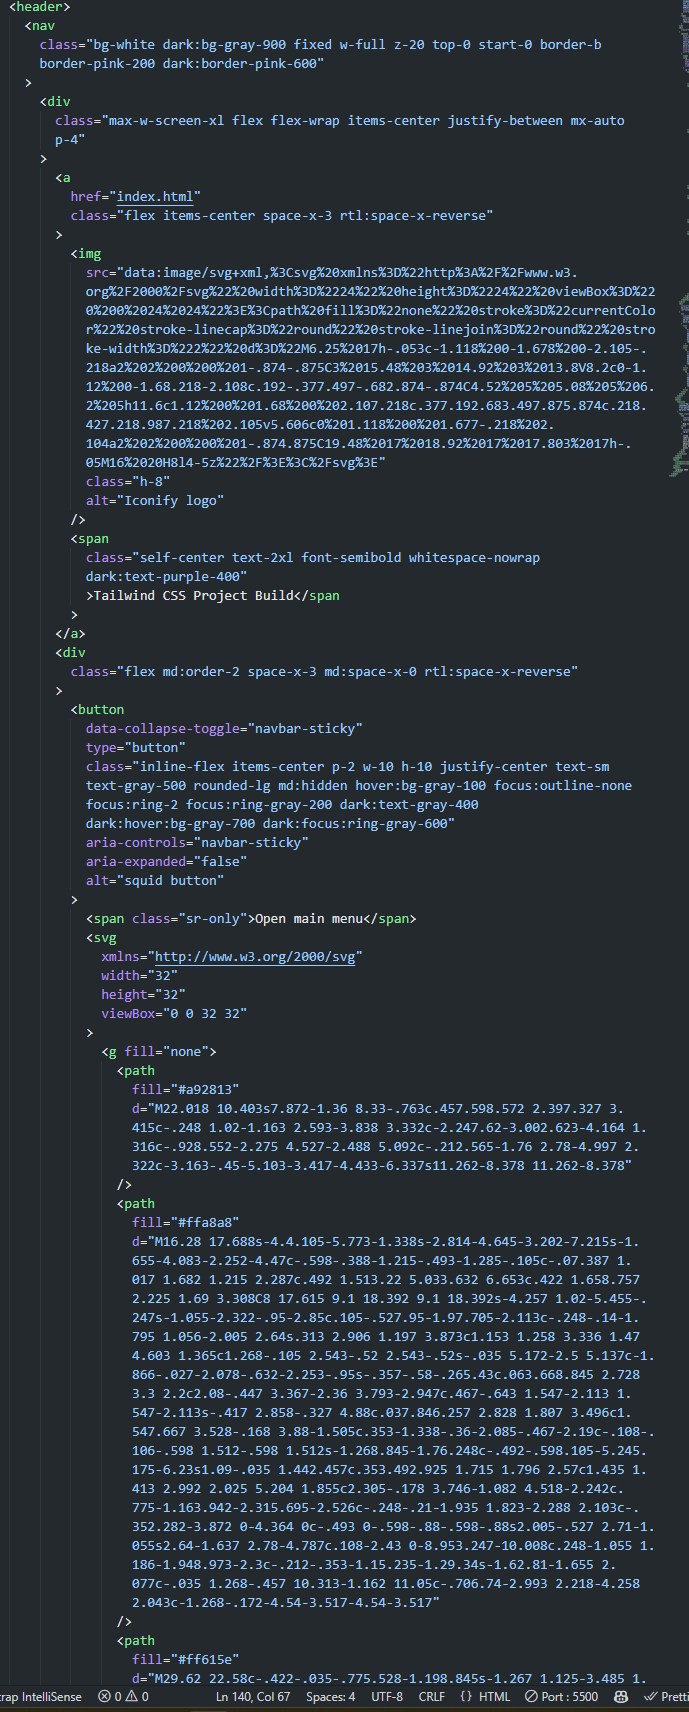
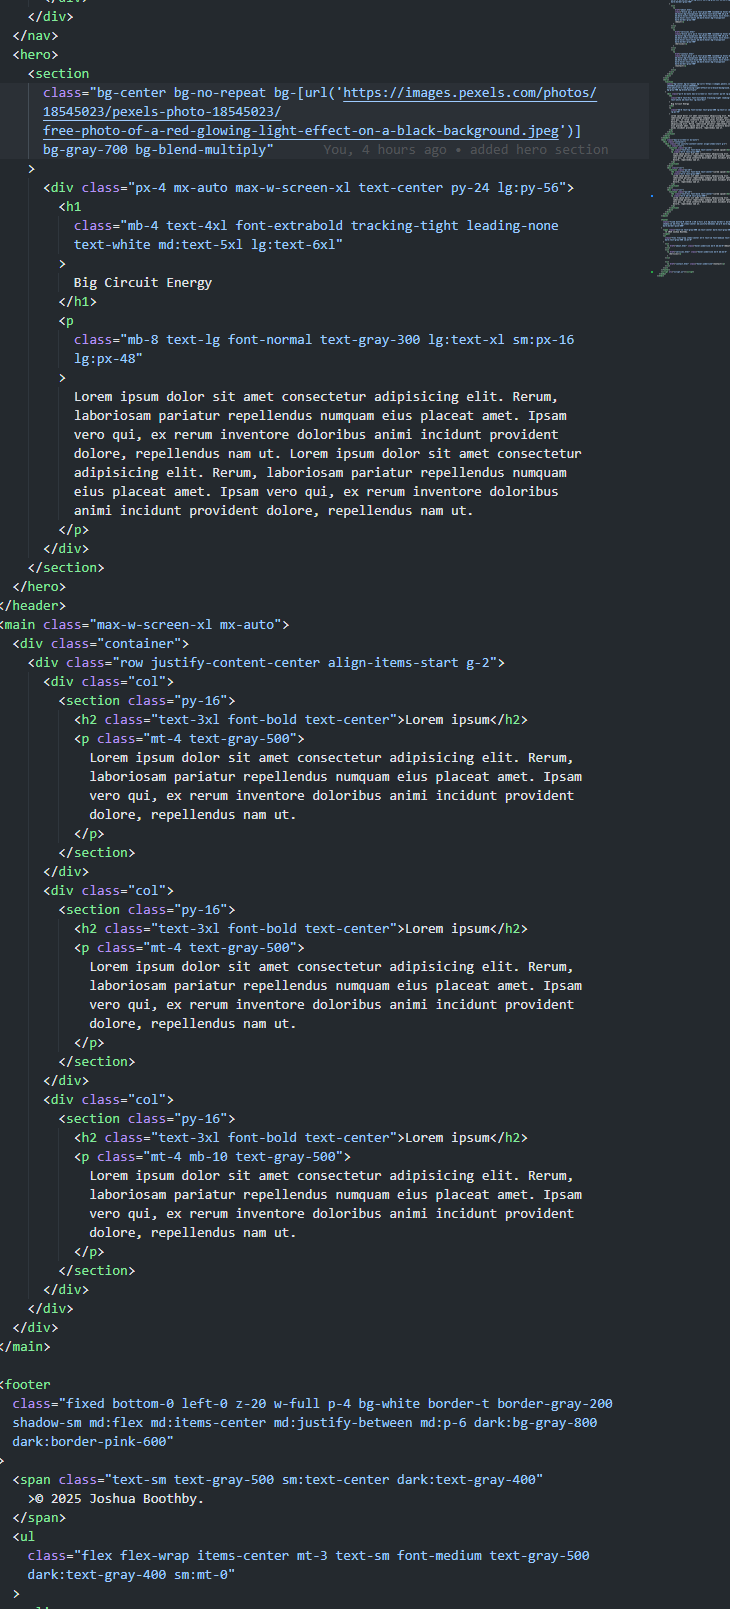
finished

diff --git a/index.html b/index.html
@@ -16,7 +16,7 @@
   <body>
     <header>
       <nav
-        class="bg-white dark:bg-gray-900 fixed w-full z-20 top-0 start-0 border-b border-pink-200 dark:border-pink-600"
+        class="bg-white dark:bg-gray-900 md:fixed w-full z-20 top-0 start-0 border-b border-pink-200 dark:border-pink-600"
       >
         <div
           class="max-w-screen-xl flex flex-wrap items-center justify-between mx-auto p-4"
@@ -37,57 +37,9 @@
           </a>
           <div
             class="flex md:order-2 space-x-3 md:space-x-0 rtl:space-x-reverse"
-          >
-            <button
-              data-collapse-toggle="navbar-sticky"
-              type="button"
-              class="inline-flex items-center p-2 w-10 h-10 justify-center text-sm text-gray-500 rounded-lg md:hidden hover:bg-gray-100 focus:outline-none focus:ring-2 focus:ring-gray-200 dark:text-gray-400 dark:hover:bg-gray-700 dark:focus:ring-gray-600"
-              aria-controls="navbar-sticky"
-              aria-expanded="false"
-              alt="squid button"
-            >
-              <span class="sr-only">Open main menu</span>
-              <svg
-                xmlns="http://www.w3.org/2000/svg"
-                width="32"
-                height="32"
-                viewBox="0 0 32 32"
-              >
-                <g fill="none">
-                  <path
-                    fill="#a92813"
-                    d="M22.018 10.403s7.872-1.36 8.33-.763c.457.598.572 2.397.327 3.415c-.248 1.02-1.163 2.593-3.838 3.332c-2.247.62-3.002.623-4.164 1.316c-.928.552-2.275 4.527-2.488 5.092c-.212.565-1.76 2.78-4.997 2.322c-3.163-.45-5.103-3.417-4.433-6.337s11.262-8.378 11.262-8.378"
-                  />
-                  <path
-                    fill="#ffa8a8"
-                    d="M16.28 17.688s-4.4.105-5.773-1.338s-2.814-4.645-3.202-7.215s-1.655-4.083-2.252-4.47c-.598-.388-1.215-.493-1.285-.105c-.07.387 1.017 1.682 1.215 2.287c.492 1.513.22 5.033.632 6.653c.422 1.658.757 2.225 1.69 3.308C8 17.615 9.1 18.392 9.1 18.392s-4.257 1.02-5.455-.247s-1.055-2.322-.95-2.85c.105-.527.95-1.97.705-2.113c-.248-.14-1.795 1.056-2.005 2.64s.313 2.906 1.197 3.873c1.153 1.258 3.336 1.47 4.603 1.365c1.268-.105 2.543-.52 2.543-.52s-.035 5.172-2.5 5.137c-1.866-.027-2.078-.632-2.253-.95s-.357-.58-.265.43c.063.668.845 2.728 3.3 2.2c2.08-.447 3.367-2.36 3.793-2.947c.467-.643 1.547-2.113 1.547-2.113s-.417 2.858-.327 4.88c.037.846.257 2.828 1.807 3.496c1.547.667 3.528-.168 3.88-1.505c.353-1.338-.36-2.085-.467-2.19c-.108-.106-.598 1.512-.598 1.512s-1.268.845-1.76.248c-.492-.598.105-5.245.175-6.23s1.09-.035 1.442.457c.353.492.925 1.715 1.796 2.57c1.435 1.413 2.992 2.025 5.204 1.855c2.305-.178 3.746-1.082 4.518-2.242c.775-1.163.942-2.315.695-2.526c-.248-.21-1.935 1.823-2.288 2.103c-.352.282-3.872 0-4.364 0c-.493 0-.598-.88-.598-.88s2.005-.527 2.71-1.055s2.64-1.637 2.78-4.787c.108-2.43 0-8.953.247-10.008c.248-1.055 1.186-1.948.973-2.3c-.212-.353-1.15.235-1.29.34s-1.62.81-1.655 2.077c-.035 1.268-.457 10.313-1.162 11.05c-.706.74-2.993 2.218-4.258 2.043c-1.268-.172-4.54-3.517-4.54-3.517"
-                  />
-                  <path
-                    fill="#ff615e"
-                    d="M29.62 22.58c-.422-.035-.775.528-1.198.845s-1.267 1.125-3.485 1.055s-3.695-2.5-3.695-2.5s.706.07 1.513-.14c.81-.21 2.095-.898 2.903-2.357c.962-1.736.747-6.018.757-7.92c.012-2.628.867-4.026 1.198-4.47c.562-.763 1.454-1.198 1.49-1.443c.034-.248-1.116-.105-1.773.282c-.73.43-1.09.915-1.09.915s-1.69-.175-2.605-.175s-2.673.135-4.205.493c-1.883.44-3.29 1.512-3.677 1.585c0 0-1.25-1.243-3.308.175c-2.148 1.477-.598 4.61-.598 4.61s-.104.453-.667.598c-.81.21-2.023-.58-2.463-1.988c-.37-1.187-.282-2.833-.632-4.733c-.353-1.9-1.373-2.745-2.288-3.167c-.915-.423-2.077-.035-1.9.21c.175.247 1.513.705 2.323 2.182c.81 1.478.422 4.928 1.302 7.39c.88 2.463 2.5 3.273 2.5 3.273s-.915.422-1.407.527c-.493.105-1.83.353-3.063.098c-1.282-.265-2.147-1.205-2.287-2.243c-.12-.882.457-2.427.14-2.5c-.318-.072-1.453 1.548-1.488 2.885c-.035 1.338.995 2.886 2.543 3.625c1.547.74 4.787.07 4.787.07s-.265.406-.3 1.18c-.035.776-.492 2.508-1.32 3.01c-.567.345-1.072.458-1.25 0c-.175-.457.723-.632.688-1.09c-.035-.457-.775-.572-1.478-.14c-.475.29-1.267 1.338-.775 2.463c.493 1.125 1.715 1.523 3.063 1.163c2.01-.538 4.33-4.258 5.068-4.893c.74-.632 1.232-.457 1.232-.457s-.353 3.272-.283 5.49c.07 2.217 1.488 3.665 3.063 3.415c1.76-.283 1.865-1.726 1.585-2.5c-.247-.678-1.18-.933-1.442-.74c-.343.252-.115.667.017.782c.318.273.053.907-.44.765c-.492-.14-.035-1.795.175-2.605s.705-2.71 1.267-2.85c.563-.14 1.136.848 1.656 1.443c.89 1.02 2.34 1.812 4.407 1.847c2.733.047 4.425-1.638 4.813-2.06c.38-.42 1.047-1.37.627-1.405m-6.338-7.355a7.6 7.6 0 0 1 1.503-.82s.023 2.885-1.08 4.375c-.912 1.232-1.795.95-1.795.95s.907-.495.985-1.442c.105-1.303-1.267-1.548-1.267-1.548s.95-1.025 1.654-1.515"
-                  />
-                  <path
-                    fill="#ff615e"
-                    d="M28.023 13.483s2.897-.863 2.614-2.976s-2.417-2.58-2.417-2.58s-.305 1.103-.258 2.546c.023.632.06 3.01.06 3.01"
-                  />
-                  <path
-                    fill="#a52914"
-                    d="M21.883 18.9c-.323.515-.873.623-1.273.373s-.462-.753-.14-1.268c.323-.515.983-.747 1.385-.497s.35.877.027 1.392m-5.55-3.025c.45-.027.3-.475.21-1.072c-.088-.598-.413-2.17.51-3.116c.774-.792 1.74-.782 2.462-.317c.545.353.793.493 1.002.23c.14-.175-.07-.51-.422-.81c-.447-.38-1.987-1.163-3.432.035c-1.366 1.133-1.146 3.325-.968 4.083c.18.757.355.985.637.967m-4.418-7.093c-.915.95-1.102 1.71-1.002 2.993c.087 1.145.492 2.022.932 1.848c.367-.148.21-.828.087-1.18c-.122-.353-.335-2.043.563-2.958s1.918-.793 2.375-.688s.65.21.88-.052c.23-.263-.248-.688-.705-.793s-1.92-.425-3.13.83"
-                  />
-                  <path
-                    fill="#2c2b2d"
-                    d="M20.503 14.415c0 .73-.548 1.463-1.268 1.425c-.705-.035-1.037-.715-1.037-1.442c0-.728.422-1.32 1.162-1.373c.843-.06 1.143.66 1.143 1.39"
-                  />
-                  <path
-                    fill="#fcd4b0"
-                    d="M27.713 11.952a.54.54 0 0 0-.434-.63a.54.54 0 0 0-.608.463a.54.54 0 0 0 .433.629a.54.54 0 0 0 .609-.462m.399-3.412c.105-.28-.007-.58-.25-.671s-.525.06-.63.34c-.105.279.007.58.25.67c.243.092.525-.06.63-.34m-.922 7.916a.657.657 0 0 0 .645-.667a.657.657 0 0 0-.645-.668a.657.657 0 0 0-.645.668c0 .368.289.667.645.667m-.012 3.544c.155-.351.013-.755-.317-.901c-.331-.147-.725.019-.88.37c-.157.35-.015.754.316.9c.33.147.725-.018.88-.37m.51 6.3c.268-.114.402-.401.3-.641s-.402-.343-.67-.229s-.403.402-.3.642c.102.24.402.342.67.228m-3.292.94c.33 0 .598-.252.598-.563s-.268-.562-.598-.562s-.598.251-.598.562c0 .31.268.563.598.563m-3.21-.578a.587.587 0 0 0 .575-.598a.587.587 0 0 0-.575-.597a.587.587 0 0 0-.575.598c0 .33.257.597.575.597m-5.96 4.155a.616.616 0 0 0 .623-.61a.616.616 0 0 0-.623-.61a.616.616 0 0 0-.623.61c0 .337.28.61.623.61m-1.79-3.542c.24-.016.416-.29.394-.61c-.022-.321-.234-.568-.474-.552s-.416.29-.394.61c.022.322.234.569.473.552m-2.887-1.209c.262-.242.299-.627.083-.86s-.602-.226-.864.016c-.261.241-.299.626-.083.86s.602.226.864-.016M7.083 27.65c.356 0 .644-.263.644-.587c0-.325-.288-.588-.645-.588c-.356 0-.644.263-.644.587c0 .325.288.588.644.588m-.657-6.525c.318 0 .575-.23.575-.515c0-.284-.257-.515-.575-.515s-.575.23-.575.515c0 .284.257.515.575.515m-2.458-1.081a.55.55 0 0 0-.217-.75a.55.55 0 0 0-.757.187a.55.55 0 0 0 .217.75a.55.55 0 0 0 .757-.187m-2.048-1.957c.24-.092.347-.393.24-.671s-.388-.43-.628-.337s-.347.392-.24.67c.107.279.388.43.628.338M6.3 13.448a.564.564 0 0 0 .553-.575a.564.564 0 0 0-.553-.575a.564.564 0 0 0-.553.575c0 .317.248.575.553.575m-.307-3.305c.298 0 .54-.252.54-.563a.55.55 0 0 0-.54-.562a.55.55 0 0 0-.54.562c0 .31.241.563.54.563m-.26-3.001c.247-.096.362-.394.257-.665c-.106-.272-.392-.415-.639-.319s-.362.394-.256.666c.105.271.39.414.638.318"
-                  />
-                </g>
-              </svg>
-            </button>
-          </div>
+          ></div>
           <div
-            class="items-center justify-between hidden w-full md:flex md:w-auto md:order-1"
+            class="items-center justify-between w-full md:flex md:w-auto md:order-1"
             id="navbar-sticky"
           >
             <ul
@@ -171,7 +123,7 @@
           <div class="col">
             <section class="py-16">
               <h2 class="text-3xl font-bold text-center">Lorem ipsum</h2>
-              <p class="mt-4 text-gray-500">
+              <p class="mt-4 mb-10 text-gray-500">
                 Lorem ipsum dolor sit amet consectetur adipisicing elit. Rerum,
                 laboriosam pariatur repellendus numquam eius placeat amet. Ipsam
                 vero qui, ex rerum inventore doloribus animi incidunt provident

diff --git a/about.html b/about.html
@@ -16,7 +16,7 @@
   <body>
     <header>
       <nav
-        class="bg-white dark:bg-gray-900 fixed w-full z-20 top-0 start-0 border-b border-pink-200 dark:border-pink-600"
+        class="bg-white dark:bg-gray-900 md:fixed w-full z-20 top-0 start-0 border-b border-pink-200 dark:border-pink-600"
       >
         <div
           class="max-w-screen-xl flex flex-wrap items-center justify-between mx-auto p-4"
@@ -37,57 +37,9 @@
           </a>
           <div
             class="flex md:order-2 space-x-3 md:space-x-0 rtl:space-x-reverse"
-          >
-            <button
-              data-collapse-toggle="navbar-sticky"
-              type="button"
-              class="inline-flex items-center p-2 w-10 h-10 justify-center text-sm text-gray-500 rounded-lg md:hidden hover:bg-gray-100 focus:outline-none focus:ring-2 focus:ring-gray-200 dark:text-gray-400 dark:hover:bg-gray-700 dark:focus:ring-gray-600"
-              aria-controls="navbar-sticky"
-              aria-expanded="false"
-              alt="squid button"
-            >
-              <span class="sr-only">Open main menu</span>
-              <svg
-                xmlns="http://www.w3.org/2000/svg"
-                width="32"
-                height="32"
-                viewBox="0 0 32 32"
-              >
-                <g fill="none">
-                  <path
-                    fill="#a92813"
-                    d="M22.018 10.403s7.872-1.36 8.33-.763c.457.598.572 2.397.327 3.415c-.248 1.02-1.163 2.593-3.838 3.332c-2.247.62-3.002.623-4.164 1.316c-.928.552-2.275 4.527-2.488 5.092c-.212.565-1.76 2.78-4.997 2.322c-3.163-.45-5.103-3.417-4.433-6.337s11.262-8.378 11.262-8.378"
-                  />
-                  <path
-                    fill="#ffa8a8"
-                    d="M16.28 17.688s-4.4.105-5.773-1.338s-2.814-4.645-3.202-7.215s-1.655-4.083-2.252-4.47c-.598-.388-1.215-.493-1.285-.105c-.07.387 1.017 1.682 1.215 2.287c.492 1.513.22 5.033.632 6.653c.422 1.658.757 2.225 1.69 3.308C8 17.615 9.1 18.392 9.1 18.392s-4.257 1.02-5.455-.247s-1.055-2.322-.95-2.85c.105-.527.95-1.97.705-2.113c-.248-.14-1.795 1.056-2.005 2.64s.313 2.906 1.197 3.873c1.153 1.258 3.336 1.47 4.603 1.365c1.268-.105 2.543-.52 2.543-.52s-.035 5.172-2.5 5.137c-1.866-.027-2.078-.632-2.253-.95s-.357-.58-.265.43c.063.668.845 2.728 3.3 2.2c2.08-.447 3.367-2.36 3.793-2.947c.467-.643 1.547-2.113 1.547-2.113s-.417 2.858-.327 4.88c.037.846.257 2.828 1.807 3.496c1.547.667 3.528-.168 3.88-1.505c.353-1.338-.36-2.085-.467-2.19c-.108-.106-.598 1.512-.598 1.512s-1.268.845-1.76.248c-.492-.598.105-5.245.175-6.23s1.09-.035 1.442.457c.353.492.925 1.715 1.796 2.57c1.435 1.413 2.992 2.025 5.204 1.855c2.305-.178 3.746-1.082 4.518-2.242c.775-1.163.942-2.315.695-2.526c-.248-.21-1.935 1.823-2.288 2.103c-.352.282-3.872 0-4.364 0c-.493 0-.598-.88-.598-.88s2.005-.527 2.71-1.055s2.64-1.637 2.78-4.787c.108-2.43 0-8.953.247-10.008c.248-1.055 1.186-1.948.973-2.3c-.212-.353-1.15.235-1.29.34s-1.62.81-1.655 2.077c-.035 1.268-.457 10.313-1.162 11.05c-.706.74-2.993 2.218-4.258 2.043c-1.268-.172-4.54-3.517-4.54-3.517"
-                  />
-                  <path
-                    fill="#ff615e"
-                    d="M29.62 22.58c-.422-.035-.775.528-1.198.845s-1.267 1.125-3.485 1.055s-3.695-2.5-3.695-2.5s.706.07 1.513-.14c.81-.21 2.095-.898 2.903-2.357c.962-1.736.747-6.018.757-7.92c.012-2.628.867-4.026 1.198-4.47c.562-.763 1.454-1.198 1.49-1.443c.034-.248-1.116-.105-1.773.282c-.73.43-1.09.915-1.09.915s-1.69-.175-2.605-.175s-2.673.135-4.205.493c-1.883.44-3.29 1.512-3.677 1.585c0 0-1.25-1.243-3.308.175c-2.148 1.477-.598 4.61-.598 4.61s-.104.453-.667.598c-.81.21-2.023-.58-2.463-1.988c-.37-1.187-.282-2.833-.632-4.733c-.353-1.9-1.373-2.745-2.288-3.167c-.915-.423-2.077-.035-1.9.21c.175.247 1.513.705 2.323 2.182c.81 1.478.422 4.928 1.302 7.39c.88 2.463 2.5 3.273 2.5 3.273s-.915.422-1.407.527c-.493.105-1.83.353-3.063.098c-1.282-.265-2.147-1.205-2.287-2.243c-.12-.882.457-2.427.14-2.5c-.318-.072-1.453 1.548-1.488 2.885c-.035 1.338.995 2.886 2.543 3.625c1.547.74 4.787.07 4.787.07s-.265.406-.3 1.18c-.035.776-.492 2.508-1.32 3.01c-.567.345-1.072.458-1.25 0c-.175-.457.723-.632.688-1.09c-.035-.457-.775-.572-1.478-.14c-.475.29-1.267 1.338-.775 2.463c.493 1.125 1.715 1.523 3.063 1.163c2.01-.538 4.33-4.258 5.068-4.893c.74-.632 1.232-.457 1.232-.457s-.353 3.272-.283 5.49c.07 2.217 1.488 3.665 3.063 3.415c1.76-.283 1.865-1.726 1.585-2.5c-.247-.678-1.18-.933-1.442-.74c-.343.252-.115.667.017.782c.318.273.053.907-.44.765c-.492-.14-.035-1.795.175-2.605s.705-2.71 1.267-2.85c.563-.14 1.136.848 1.656 1.443c.89 1.02 2.34 1.812 4.407 1.847c2.733.047 4.425-1.638 4.813-2.06c.38-.42 1.047-1.37.627-1.405m-6.338-7.355a7.6 7.6 0 0 1 1.503-.82s.023 2.885-1.08 4.375c-.912 1.232-1.795.95-1.795.95s.907-.495.985-1.442c.105-1.303-1.267-1.548-1.267-1.548s.95-1.025 1.654-1.515"
-                  />
-                  <path
-                    fill="#ff615e"
-                    d="M28.023 13.483s2.897-.863 2.614-2.976s-2.417-2.58-2.417-2.58s-.305 1.103-.258 2.546c.023.632.06 3.01.06 3.01"
-                  />
-                  <path
-                    fill="#a52914"
-                    d="M21.883 18.9c-.323.515-.873.623-1.273.373s-.462-.753-.14-1.268c.323-.515.983-.747 1.385-.497s.35.877.027 1.392m-5.55-3.025c.45-.027.3-.475.21-1.072c-.088-.598-.413-2.17.51-3.116c.774-.792 1.74-.782 2.462-.317c.545.353.793.493 1.002.23c.14-.175-.07-.51-.422-.81c-.447-.38-1.987-1.163-3.432.035c-1.366 1.133-1.146 3.325-.968 4.083c.18.757.355.985.637.967m-4.418-7.093c-.915.95-1.102 1.71-1.002 2.993c.087 1.145.492 2.022.932 1.848c.367-.148.21-.828.087-1.18c-.122-.353-.335-2.043.563-2.958s1.918-.793 2.375-.688s.65.21.88-.052c.23-.263-.248-.688-.705-.793s-1.92-.425-3.13.83"
-                  />
-                  <path
-                    fill="#2c2b2d"
-                    d="M20.503 14.415c0 .73-.548 1.463-1.268 1.425c-.705-.035-1.037-.715-1.037-1.442c0-.728.422-1.32 1.162-1.373c.843-.06 1.143.66 1.143 1.39"
-                  />
-                  <path
-                    fill="#fcd4b0"
-                    d="M27.713 11.952a.54.54 0 0 0-.434-.63a.54.54 0 0 0-.608.463a.54.54 0 0 0 .433.629a.54.54 0 0 0 .609-.462m.399-3.412c.105-.28-.007-.58-.25-.671s-.525.06-.63.34c-.105.279.007.58.25.67c.243.092.525-.06.63-.34m-.922 7.916a.657.657 0 0 0 .645-.667a.657.657 0 0 0-.645-.668a.657.657 0 0 0-.645.668c0 .368.289.667.645.667m-.012 3.544c.155-.351.013-.755-.317-.901c-.331-.147-.725.019-.88.37c-.157.35-.015.754.316.9c.33.147.725-.018.88-.37m.51 6.3c.268-.114.402-.401.3-.641s-.402-.343-.67-.229s-.403.402-.3.642c.102.24.402.342.67.228m-3.292.94c.33 0 .598-.252.598-.563s-.268-.562-.598-.562s-.598.251-.598.562c0 .31.268.563.598.563m-3.21-.578a.587.587 0 0 0 .575-.598a.587.587 0 0 0-.575-.597a.587.587 0 0 0-.575.598c0 .33.257.597.575.597m-5.96 4.155a.616.616 0 0 0 .623-.61a.616.616 0 0 0-.623-.61a.616.616 0 0 0-.623.61c0 .337.28.61.623.61m-1.79-3.542c.24-.016.416-.29.394-.61c-.022-.321-.234-.568-.474-.552s-.416.29-.394.61c.022.322.234.569.473.552m-2.887-1.209c.262-.242.299-.627.083-.86s-.602-.226-.864.016c-.261.241-.299.626-.083.86s.602.226.864-.016M7.083 27.65c.356 0 .644-.263.644-.587c0-.325-.288-.588-.645-.588c-.356 0-.644.263-.644.587c0 .325.288.588.644.588m-.657-6.525c.318 0 .575-.23.575-.515c0-.284-.257-.515-.575-.515s-.575.23-.575.515c0 .284.257.515.575.515m-2.458-1.081a.55.55 0 0 0-.217-.75a.55.55 0 0 0-.757.187a.55.55 0 0 0 .217.75a.55.55 0 0 0 .757-.187m-2.048-1.957c.24-.092.347-.393.24-.671s-.388-.43-.628-.337s-.347.392-.24.67c.107.279.388.43.628.338M6.3 13.448a.564.564 0 0 0 .553-.575a.564.564 0 0 0-.553-.575a.564.564 0 0 0-.553.575c0 .317.248.575.553.575m-.307-3.305c.298 0 .54-.252.54-.563a.55.55 0 0 0-.54-.562a.55.55 0 0 0-.54.562c0 .31.241.563.54.563m-.26-3.001c.247-.096.362-.394.257-.665c-.106-.272-.392-.415-.639-.319s-.362.394-.256.666c.105.271.39.414.638.318"
-                  />
-                </g>
-              </svg>
-            </button>
-          </div>
+          ></div>
           <div
-            class="items-center justify-between hidden w-full md:flex md:w-auto md:order-1"
+            class="items-center justify-between w-full md:flex md:w-auto md:order-1"
             id="navbar-sticky"
           >
             <ul

diff --git a/contact.html b/contact.html
@@ -16,7 +16,7 @@
   <body>
     <header>
       <nav
-        class="bg-white dark:bg-gray-900 fixed w-full z-20 top-0 start-0 border-b border-pink-200 dark:border-pink-600"
+        class="bg-white dark:bg-gray-900 md:fixed w-full z-20 top-0 start-0 border-b border-pink-200 dark:border-pink-600"
       >
         <div
           class="max-w-screen-xl flex flex-wrap items-center justify-between mx-auto p-4"
@@ -37,57 +37,9 @@
           </a>
           <div
             class="flex md:order-2 space-x-3 md:space-x-0 rtl:space-x-reverse"
-          >
-            <button
-              data-collapse-toggle="navbar-sticky"
-              type="button"
-              class="inline-flex items-center p-2 w-10 h-10 justify-center text-sm text-gray-500 rounded-lg md:hidden hover:bg-gray-100 focus:outline-none focus:ring-2 focus:ring-gray-200 dark:text-gray-400 dark:hover:bg-gray-700 dark:focus:ring-gray-600"
-              aria-controls="navbar-sticky"
-              aria-expanded="false"
-              alt="squid button"
-            >
-              <span class="sr-only">Open main menu</span>
-              <svg
-                xmlns="http://www.w3.org/2000/svg"
-                width="32"
-                height="32"
-                viewBox="0 0 32 32"
-              >
-                <g fill="none">
-                  <path
-                    fill="#a92813"
-                    d="M22.018 10.403s7.872-1.36 8.33-.763c.457.598.572 2.397.327 3.415c-.248 1.02-1.163 2.593-3.838 3.332c-2.247.62-3.002.623-4.164 1.316c-.928.552-2.275 4.527-2.488 5.092c-.212.565-1.76 2.78-4.997 2.322c-3.163-.45-5.103-3.417-4.433-6.337s11.262-8.378 11.262-8.378"
-                  />
-                  <path
-                    fill="#ffa8a8"
-                    d="M16.28 17.688s-4.4.105-5.773-1.338s-2.814-4.645-3.202-7.215s-1.655-4.083-2.252-4.47c-.598-.388-1.215-.493-1.285-.105c-.07.387 1.017 1.682 1.215 2.287c.492 1.513.22 5.033.632 6.653c.422 1.658.757 2.225 1.69 3.308C8 17.615 9.1 18.392 9.1 18.392s-4.257 1.02-5.455-.247s-1.055-2.322-.95-2.85c.105-.527.95-1.97.705-2.113c-.248-.14-1.795 1.056-2.005 2.64s.313 2.906 1.197 3.873c1.153 1.258 3.336 1.47 4.603 1.365c1.268-.105 2.543-.52 2.543-.52s-.035 5.172-2.5 5.137c-1.866-.027-2.078-.632-2.253-.95s-.357-.58-.265.43c.063.668.845 2.728 3.3 2.2c2.08-.447 3.367-2.36 3.793-2.947c.467-.643 1.547-2.113 1.547-2.113s-.417 2.858-.327 4.88c.037.846.257 2.828 1.807 3.496c1.547.667 3.528-.168 3.88-1.505c.353-1.338-.36-2.085-.467-2.19c-.108-.106-.598 1.512-.598 1.512s-1.268.845-1.76.248c-.492-.598.105-5.245.175-6.23s1.09-.035 1.442.457c.353.492.925 1.715 1.796 2.57c1.435 1.413 2.992 2.025 5.204 1.855c2.305-.178 3.746-1.082 4.518-2.242c.775-1.163.942-2.315.695-2.526c-.248-.21-1.935 1.823-2.288 2.103c-.352.282-3.872 0-4.364 0c-.493 0-.598-.88-.598-.88s2.005-.527 2.71-1.055s2.64-1.637 2.78-4.787c.108-2.43 0-8.953.247-10.008c.248-1.055 1.186-1.948.973-2.3c-.212-.353-1.15.235-1.29.34s-1.62.81-1.655 2.077c-.035 1.268-.457 10.313-1.162 11.05c-.706.74-2.993 2.218-4.258 2.043c-1.268-.172-4.54-3.517-4.54-3.517"
-                  />
-                  <path
-                    fill="#ff615e"
-                    d="M29.62 22.58c-.422-.035-.775.528-1.198.845s-1.267 1.125-3.485 1.055s-3.695-2.5-3.695-2.5s.706.07 1.513-.14c.81-.21 2.095-.898 2.903-2.357c.962-1.736.747-6.018.757-7.92c.012-2.628.867-4.026 1.198-4.47c.562-.763 1.454-1.198 1.49-1.443c.034-.248-1.116-.105-1.773.282c-.73.43-1.09.915-1.09.915s-1.69-.175-2.605-.175s-2.673.135-4.205.493c-1.883.44-3.29 1.512-3.677 1.585c0 0-1.25-1.243-3.308.175c-2.148 1.477-.598 4.61-.598 4.61s-.104.453-.667.598c-.81.21-2.023-.58-2.463-1.988c-.37-1.187-.282-2.833-.632-4.733c-.353-1.9-1.373-2.745-2.288-3.167c-.915-.423-2.077-.035-1.9.21c.175.247 1.513.705 2.323 2.182c.81 1.478.422 4.928 1.302 7.39c.88 2.463 2.5 3.273 2.5 3.273s-.915.422-1.407.527c-.493.105-1.83.353-3.063.098c-1.282-.265-2.147-1.205-2.287-2.243c-.12-.882.457-2.427.14-2.5c-.318-.072-1.453 1.548-1.488 2.885c-.035 1.338.995 2.886 2.543 3.625c1.547.74 4.787.07 4.787.07s-.265.406-.3 1.18c-.035.776-.492 2.508-1.32 3.01c-.567.345-1.072.458-1.25 0c-.175-.457.723-.632.688-1.09c-.035-.457-.775-.572-1.478-.14c-.475.29-1.267 1.338-.775 2.463c.493 1.125 1.715 1.523 3.063 1.163c2.01-.538 4.33-4.258 5.068-4.893c.74-.632 1.232-.457 1.232-.457s-.353 3.272-.283 5.49c.07 2.217 1.488 3.665 3.063 3.415c1.76-.283 1.865-1.726 1.585-2.5c-.247-.678-1.18-.933-1.442-.74c-.343.252-.115.667.017.782c.318.273.053.907-.44.765c-.492-.14-.035-1.795.175-2.605s.705-2.71 1.267-2.85c.563-.14 1.136.848 1.656 1.443c.89 1.02 2.34 1.812 4.407 1.847c2.733.047 4.425-1.638 4.813-2.06c.38-.42 1.047-1.37.627-1.405m-6.338-7.355a7.6 7.6 0 0 1 1.503-.82s.023 2.885-1.08 4.375c-.912 1.232-1.795.95-1.795.95s.907-.495.985-1.442c.105-1.303-1.267-1.548-1.267-1.548s.95-1.025 1.654-1.515"
-                  />
-                  <path
-                    fill="#ff615e"
-                    d="M28.023 13.483s2.897-.863 2.614-2.976s-2.417-2.58-2.417-2.58s-.305 1.103-.258 2.546c.023.632.06 3.01.06 3.01"
-                  />
-                  <path
-                    fill="#a52914"
-                    d="M21.883 18.9c-.323.515-.873.623-1.273.373s-.462-.753-.14-1.268c.323-.515.983-.747 1.385-.497s.35.877.027 1.392m-5.55-3.025c.45-.027.3-.475.21-1.072c-.088-.598-.413-2.17.51-3.116c.774-.792 1.74-.782 2.462-.317c.545.353.793.493 1.002.23c.14-.175-.07-.51-.422-.81c-.447-.38-1.987-1.163-3.432.035c-1.366 1.133-1.146 3.325-.968 4.083c.18.757.355.985.637.967m-4.418-7.093c-.915.95-1.102 1.71-1.002 2.993c.087 1.145.492 2.022.932 1.848c.367-.148.21-.828.087-1.18c-.122-.353-.335-2.043.563-2.958s1.918-.793 2.375-.688s.65.21.88-.052c.23-.263-.248-.688-.705-.793s-1.92-.425-3.13.83"
-                  />
-                  <path
-                    fill="#2c2b2d"
-                    d="M20.503 14.415c0 .73-.548 1.463-1.268 1.425c-.705-.035-1.037-.715-1.037-1.442c0-.728.422-1.32 1.162-1.373c.843-.06 1.143.66 1.143 1.39"
-                  />
-                  <path
-                    fill="#fcd4b0"
-                    d="M27.713 11.952a.54.54 0 0 0-.434-.63a.54.54 0 0 0-.608.463a.54.54 0 0 0 .433.629a.54.54 0 0 0 .609-.462m.399-3.412c.105-.28-.007-.58-.25-.671s-.525.06-.63.34c-.105.279.007.58.25.67c.243.092.525-.06.63-.34m-.922 7.916a.657.657 0 0 0 .645-.667a.657.657 0 0 0-.645-.668a.657.657 0 0 0-.645.668c0 .368.289.667.645.667m-.012 3.544c.155-.351.013-.755-.317-.901c-.331-.147-.725.019-.88.37c-.157.35-.015.754.316.9c.33.147.725-.018.88-.37m.51 6.3c.268-.114.402-.401.3-.641s-.402-.343-.67-.229s-.403.402-.3.642c.102.24.402.342.67.228m-3.292.94c.33 0 .598-.252.598-.563s-.268-.562-.598-.562s-.598.251-.598.562c0 .31.268.563.598.563m-3.21-.578a.587.587 0 0 0 .575-.598a.587.587 0 0 0-.575-.597a.587.587 0 0 0-.575.598c0 .33.257.597.575.597m-5.96 4.155a.616.616 0 0 0 .623-.61a.616.616 0 0 0-.623-.61a.616.616 0 0 0-.623.61c0 .337.28.61.623.61m-1.79-3.542c.24-.016.416-.29.394-.61c-.022-.321-.234-.568-.474-.552s-.416.29-.394.61c.022.322.234.569.473.552m-2.887-1.209c.262-.242.299-.627.083-.86s-.602-.226-.864.016c-.261.241-.299.626-.083.86s.602.226.864-.016M7.083 27.65c.356 0 .644-.263.644-.587c0-.325-.288-.588-.645-.588c-.356 0-.644.263-.644.587c0 .325.288.588.644.588m-.657-6.525c.318 0 .575-.23.575-.515c0-.284-.257-.515-.575-.515s-.575.23-.575.515c0 .284.257.515.575.515m-2.458-1.081a.55.55 0 0 0-.217-.75a.55.55 0 0 0-.757.187a.55.55 0 0 0 .217.75a.55.55 0 0 0 .757-.187m-2.048-1.957c.24-.092.347-.393.24-.671s-.388-.43-.628-.337s-.347.392-.24.67c.107.279.388.43.628.338M6.3 13.448a.564.564 0 0 0 .553-.575a.564.564 0 0 0-.553-.575a.564.564 0 0 0-.553.575c0 .317.248.575.553.575m-.307-3.305c.298 0 .54-.252.54-.563a.55.55 0 0 0-.54-.562a.55.55 0 0 0-.54.562c0 .31.241.563.54.563m-.26-3.001c.247-.096.362-.394.257-.665c-.106-.272-.392-.415-.639-.319s-.362.394-.256.666c.105.271.39.414.638.318"
-                  />
-                </g>
-              </svg>
-            </button>
-          </div>
+          ></div>
           <div
-            class="items-center justify-between hidden w-full md:flex md:w-auto md:order-1"
+            class="items-center justify-between w-full md:flex md:w-auto md:order-1"
             id="navbar-sticky"
           >
             <ul

diff --git a/services.html b/services.html
@@ -16,7 +16,7 @@
   <body>
     <header>
       <nav
-        class="bg-white dark:bg-gray-900 fixed w-full z-20 top-0 start-0 border-b border-pink-200 dark:border-pink-600"
+        class="bg-white dark:bg-gray-900 md:fixed w-full z-20 top-0 start-0 border-b border-pink-200 dark:border-pink-600"
       >
         <div
           class="max-w-screen-xl flex flex-wrap items-center justify-between mx-auto p-4"
@@ -37,57 +37,9 @@
           </a>
           <div
             class="flex md:order-2 space-x-3 md:space-x-0 rtl:space-x-reverse"
-          >
-            <button
-              data-collapse-toggle="navbar-sticky"
-              type="button"
-              class="inline-flex items-center p-2 w-10 h-10 justify-center text-sm text-gray-500 rounded-lg md:hidden hover:bg-gray-100 focus:outline-none focus:ring-2 focus:ring-gray-200 dark:text-gray-400 dark:hover:bg-gray-700 dark:focus:ring-gray-600"
-              aria-controls="navbar-sticky"
-              aria-expanded="false"
-              alt="squid button"
-            >
-              <span class="sr-only">Open main menu</span>
-              <svg
-                xmlns="http://www.w3.org/2000/svg"
-                width="32"
-                height="32"
-                viewBox="0 0 32 32"
-              >
-                <g fill="none">
-                  <path
-                    fill="#a92813"
-                    d="M22.018 10.403s7.872-1.36 8.33-.763c.457.598.572 2.397.327 3.415c-.248 1.02-1.163 2.593-3.838 3.332c-2.247.62-3.002.623-4.164 1.316c-.928.552-2.275 4.527-2.488 5.092c-.212.565-1.76 2.78-4.997 2.322c-3.163-.45-5.103-3.417-4.433-6.337s11.262-8.378 11.262-8.378"
-                  />
-                  <path
-                    fill="#ffa8a8"
-                    d="M16.28 17.688s-4.4.105-5.773-1.338s-2.814-4.645-3.202-7.215s-1.655-4.083-2.252-4.47c-.598-.388-1.215-.493-1.285-.105c-.07.387 1.017 1.682 1.215 2.287c.492 1.513.22 5.033.632 6.653c.422 1.658.757 2.225 1.69 3.308C8 17.615 9.1 18.392 9.1 18.392s-4.257 1.02-5.455-.247s-1.055-2.322-.95-2.85c.105-.527.95-1.97.705-2.113c-.248-.14-1.795 1.056-2.005 2.64s.313 2.906 1.197 3.873c1.153 1.258 3.336 1.47 4.603 1.365c1.268-.105 2.543-.52 2.543-.52s-.035 5.172-2.5 5.137c-1.866-.027-2.078-.632-2.253-.95s-.357-.58-.265.43c.063.668.845 2.728 3.3 2.2c2.08-.447 3.367-2.36 3.793-2.947c.467-.643 1.547-2.113 1.547-2.113s-.417 2.858-.327 4.88c.037.846.257 2.828 1.807 3.496c1.547.667 3.528-.168 3.88-1.505c.353-1.338-.36-2.085-.467-2.19c-.108-.106-.598 1.512-.598 1.512s-1.268.845-1.76.248c-.492-.598.105-5.245.175-6.23s1.09-.035 1.442.457c.353.492.925 1.715 1.796 2.57c1.435 1.413 2.992 2.025 5.204 1.855c2.305-.178 3.746-1.082 4.518-2.242c.775-1.163.942-2.315.695-2.526c-.248-.21-1.935 1.823-2.288 2.103c-.352.282-3.872 0-4.364 0c-.493 0-.598-.88-.598-.88s2.005-.527 2.71-1.055s2.64-1.637 2.78-4.787c.108-2.43 0-8.953.247-10.008c.248-1.055 1.186-1.948.973-2.3c-.212-.353-1.15.235-1.29.34s-1.62.81-1.655 2.077c-.035 1.268-.457 10.313-1.162 11.05c-.706.74-2.993 2.218-4.258 2.043c-1.268-.172-4.54-3.517-4.54-3.517"
-                  />
-                  <path
-                    fill="#ff615e"
-                    d="M29.62 22.58c-.422-.035-.775.528-1.198.845s-1.267 1.125-3.485 1.055s-3.695-2.5-3.695-2.5s.706.07 1.513-.14c.81-.21 2.095-.898 2.903-2.357c.962-1.736.747-6.018.757-7.92c.012-2.628.867-4.026 1.198-4.47c.562-.763 1.454-1.198 1.49-1.443c.034-.248-1.116-.105-1.773.282c-.73.43-1.09.915-1.09.915s-1.69-.175-2.605-.175s-2.673.135-4.205.493c-1.883.44-3.29 1.512-3.677 1.585c0 0-1.25-1.243-3.308.175c-2.148 1.477-.598 4.61-.598 4.61s-.104.453-.667.598c-.81.21-2.023-.58-2.463-1.988c-.37-1.187-.282-2.833-.632-4.733c-.353-1.9-1.373-2.745-2.288-3.167c-.915-.423-2.077-.035-1.9.21c.175.247 1.513.705 2.323 2.182c.81 1.478.422 4.928 1.302 7.39c.88 2.463 2.5 3.273 2.5 3.273s-.915.422-1.407.527c-.493.105-1.83.353-3.063.098c-1.282-.265-2.147-1.205-2.287-2.243c-.12-.882.457-2.427.14-2.5c-.318-.072-1.453 1.548-1.488 2.885c-.035 1.338.995 2.886 2.543 3.625c1.547.74 4.787.07 4.787.07s-.265.406-.3 1.18c-.035.776-.492 2.508-1.32 3.01c-.567.345-1.072.458-1.25 0c-.175-.457.723-.632.688-1.09c-.035-.457-.775-.572-1.478-.14c-.475.29-1.267 1.338-.775 2.463c.493 1.125 1.715 1.523 3.063 1.163c2.01-.538 4.33-4.258 5.068-4.893c.74-.632 1.232-.457 1.232-.457s-.353 3.272-.283 5.49c.07 2.217 1.488 3.665 3.063 3.415c1.76-.283 1.865-1.726 1.585-2.5c-.247-.678-1.18-.933-1.442-.74c-.343.252-.115.667.017.782c.318.273.053.907-.44.765c-.492-.14-.035-1.795.175-2.605s.705-2.71 1.267-2.85c.563-.14 1.136.848 1.656 1.443c.89 1.02 2.34 1.812 4.407 1.847c2.733.047 4.425-1.638 4.813-2.06c.38-.42 1.047-1.37.627-1.405m-6.338-7.355a7.6 7.6 0 0 1 1.503-.82s.023 2.885-1.08 4.375c-.912 1.232-1.795.95-1.795.95s.907-.495.985-1.442c.105-1.303-1.267-1.548-1.267-1.548s.95-1.025 1.654-1.515"
-                  />
-                  <path
-                    fill="#ff615e"
-                    d="M28.023 13.483s2.897-.863 2.614-2.976s-2.417-2.58-2.417-2.58s-.305 1.103-.258 2.546c.023.632.06 3.01.06 3.01"
-                  />
-                  <path
-                    fill="#a52914"
-                    d="M21.883 18.9c-.323.515-.873.623-1.273.373s-.462-.753-.14-1.268c.323-.515.983-.747 1.385-.497s.35.877.027 1.392m-5.55-3.025c.45-.027.3-.475.21-1.072c-.088-.598-.413-2.17.51-3.116c.774-.792 1.74-.782 2.462-.317c.545.353.793.493 1.002.23c.14-.175-.07-.51-.422-.81c-.447-.38-1.987-1.163-3.432.035c-1.366 1.133-1.146 3.325-.968 4.083c.18.757.355.985.637.967m-4.418-7.093c-.915.95-1.102 1.71-1.002 2.993c.087 1.145.492 2.022.932 1.848c.367-.148.21-.828.087-1.18c-.122-.353-.335-2.043.563-2.958s1.918-.793 2.375-.688s.65.21.88-.052c.23-.263-.248-.688-.705-.793s-1.92-.425-3.13.83"
-                  />
-                  <path
-                    fill="#2c2b2d"
-                    d="M20.503 14.415c0 .73-.548 1.463-1.268 1.425c-.705-.035-1.037-.715-1.037-1.442c0-.728.422-1.32 1.162-1.373c.843-.06 1.143.66 1.143 1.39"
-                  />
-                  <path
-                    fill="#fcd4b0"
-                    d="M27.713 11.952a.54.54 0 0 0-.434-.63a.54.54 0 0 0-.608.463a.54.54 0 0 0 .433.629a.54.54 0 0 0 .609-.462m.399-3.412c.105-.28-.007-.58-.25-.671s-.525.06-.63.34c-.105.279.007.58.25.67c.243.092.525-.06.63-.34m-.922 7.916a.657.657 0 0 0 .645-.667a.657.657 0 0 0-.645-.668a.657.657 0 0 0-.645.668c0 .368.289.667.645.667m-.012 3.544c.155-.351.013-.755-.317-.901c-.331-.147-.725.019-.88.37c-.157.35-.015.754.316.9c.33.147.725-.018.88-.37m.51 6.3c.268-.114.402-.401.3-.641s-.402-.343-.67-.229s-.403.402-.3.642c.102.24.402.342.67.228m-3.292.94c.33 0 .598-.252.598-.563s-.268-.562-.598-.562s-.598.251-.598.562c0 .31.268.563.598.563m-3.21-.578a.587.587 0 0 0 .575-.598a.587.587 0 0 0-.575-.597a.587.587 0 0 0-.575.598c0 .33.257.597.575.597m-5.96 4.155a.616.616 0 0 0 .623-.61a.616.616 0 0 0-.623-.61a.616.616 0 0 0-.623.61c0 .337.28.61.623.61m-1.79-3.542c.24-.016.416-.29.394-.61c-.022-.321-.234-.568-.474-.552s-.416.29-.394.61c.022.322.234.569.473.552m-2.887-1.209c.262-.242.299-.627.083-.86s-.602-.226-.864.016c-.261.241-.299.626-.083.86s.602.226.864-.016M7.083 27.65c.356 0 .644-.263.644-.587c0-.325-.288-.588-.645-.588c-.356 0-.644.263-.644.587c0 .325.288.588.644.588m-.657-6.525c.318 0 .575-.23.575-.515c0-.284-.257-.515-.575-.515s-.575.23-.575.515c0 .284.257.515.575.515m-2.458-1.081a.55.55 0 0 0-.217-.75a.55.55 0 0 0-.757.187a.55.55 0 0 0 .217.75a.55.55 0 0 0 .757-.187m-2.048-1.957c.24-.092.347-.393.24-.671s-.388-.43-.628-.337s-.347.392-.24.67c.107.279.388.43.628.338M6.3 13.448a.564.564 0 0 0 .553-.575a.564.564 0 0 0-.553-.575a.564.564 0 0 0-.553.575c0 .317.248.575.553.575m-.307-3.305c.298 0 .54-.252.54-.563a.55.55 0 0 0-.54-.562a.55.55 0 0 0-.54.562c0 .31.241.563.54.563m-.26-3.001c.247-.096.362-.394.257-.665c-.106-.272-.392-.415-.639-.319s-.362.394-.256.666c.105.271.39.414.638.318"
-                  />
-                </g>
-              </svg>
-            </button>
-          </div>
+          ></div>
           <div
-            class="items-center justify-between hidden w-full md:flex md:w-auto md:order-1"
+            class="items-center justify-between w-full md:flex md:w-auto md:order-1"
             id="navbar-sticky"
           >
             <ul

diff --git a/README.md b/README.md
@@ -1,6 +1,3 @@
+![alt text](image.png)
 ![alt text](image-1.png)
 ![alt text](image-2.png)
-![alt text](image-3.png)
-![alt text](image.png)
-![alt text](image-4.png)
-![alt text](image-5.png)
